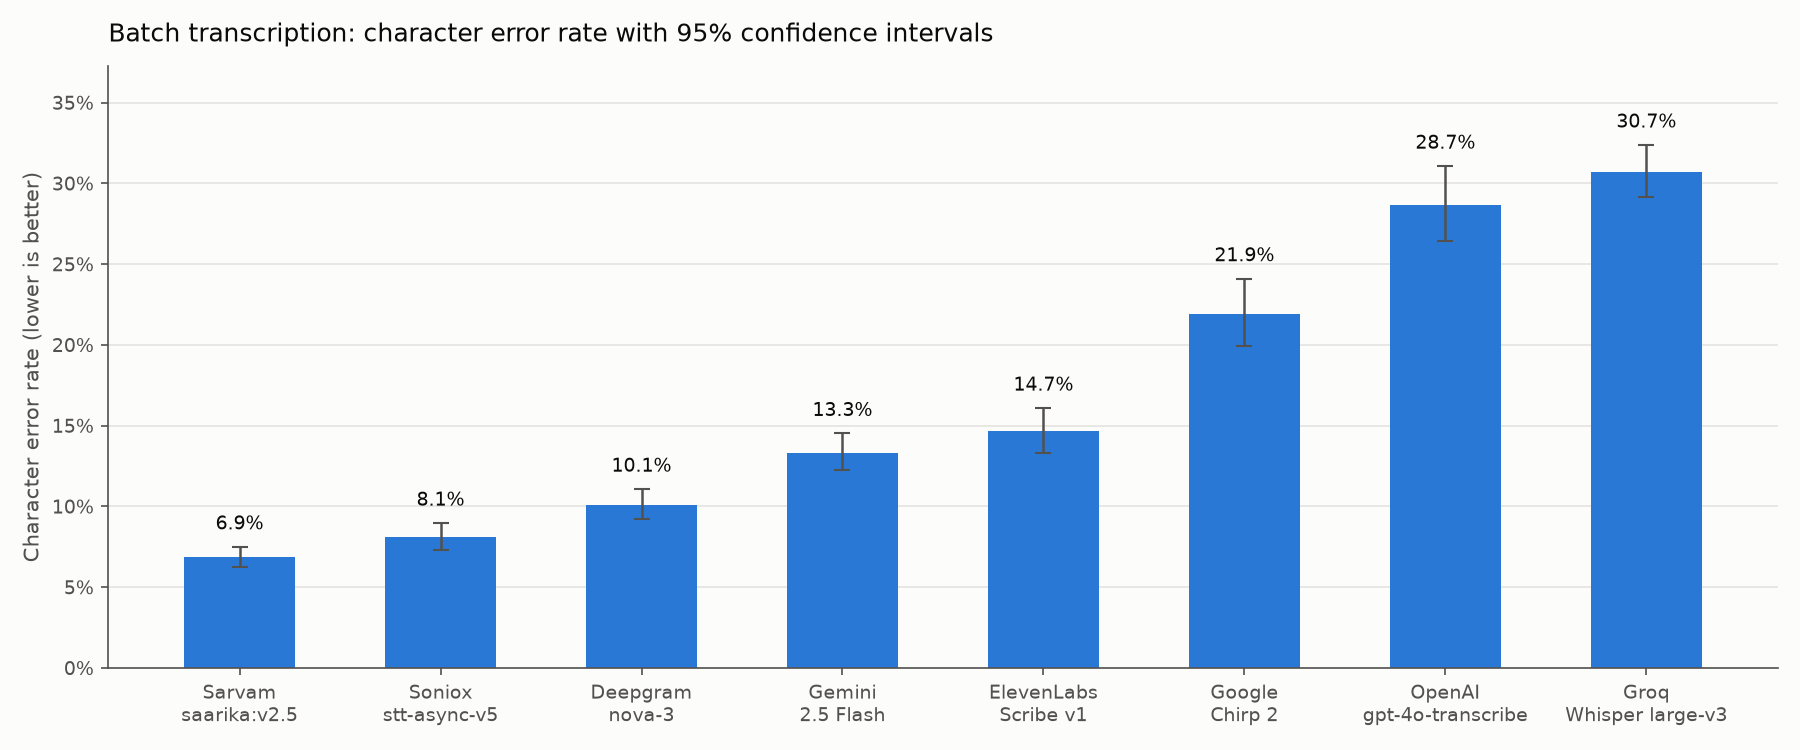
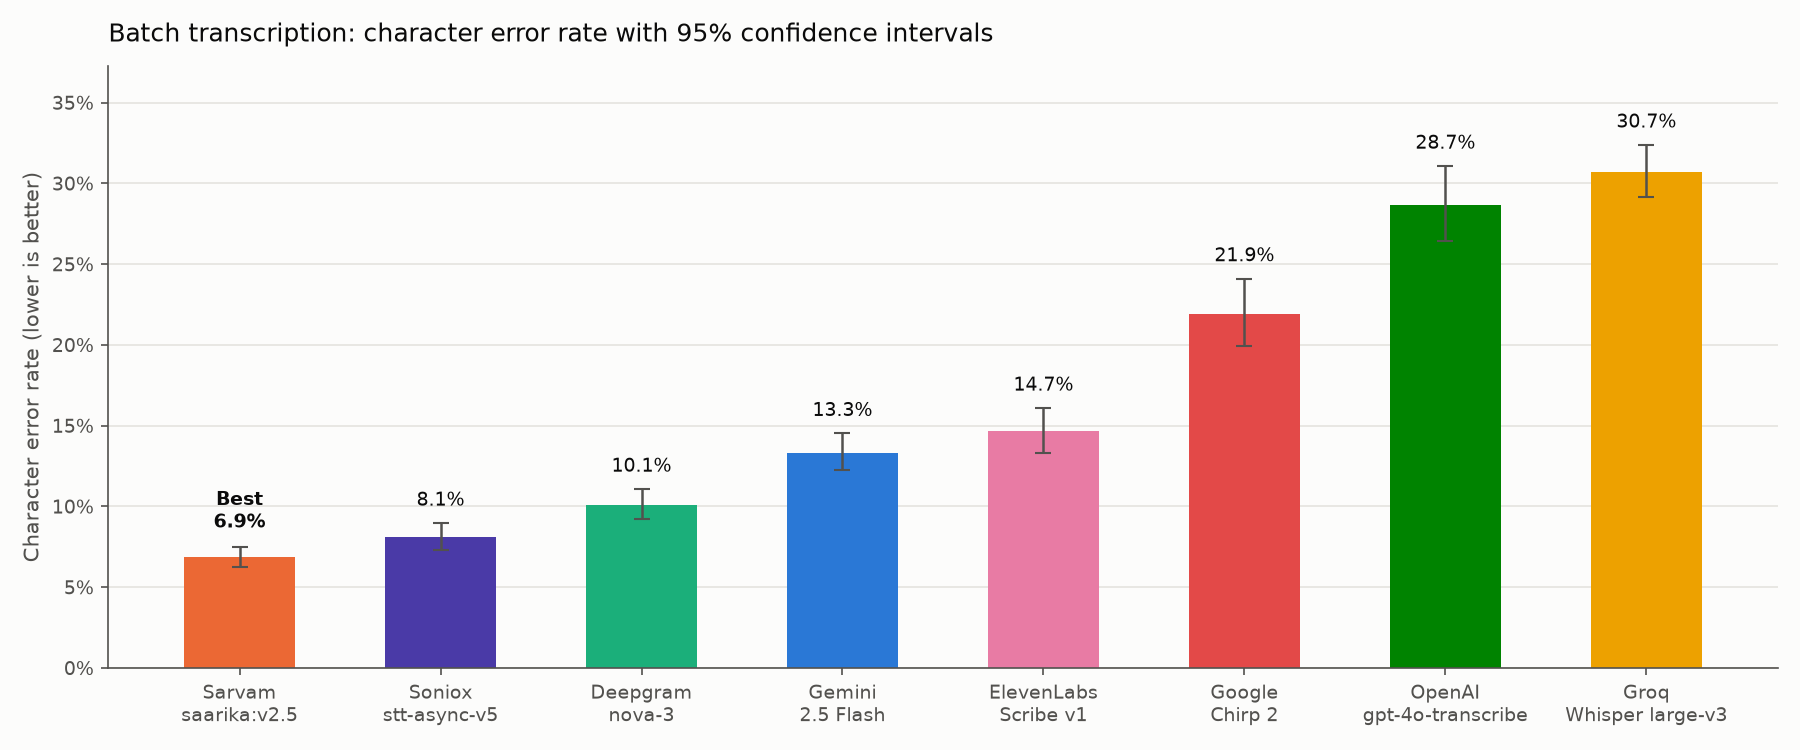
Make README and charts more colourful
Give each provider a fixed colour across every chart, use a warm ramp for
the domain heatmaps and label the best bar. Add badges, GitHub callouts,
a short summary tip and medals for the top 3 in the README tables.

Claude-Session: https://claude.ai/code/session_014H4DpivFfxjsAFBzYfeYvQ

diff --git a/src/plot_results.py b/src/plot_results.py
@@ -23,15 +23,27 @@ ROOT = os.path.dirname(os.path.dirname(os.path.abspath(__file__)))
 RESULTS = os.path.join(ROOT, "results")
 PLOTS = os.path.join(RESULTS, "plots")
 
-# Colours: one accent hue for single-series charts, a second for the
-# second series of a paired chart, a one-hue sequential ramp for heatmaps.
+# Colours: each provider keeps one hue across every chart (batch and streaming
+# alike), two fixed hues for the paired latency chart, and a warm light-to-dark
+# ramp for the heatmaps (hotter = more errors).
 SURFACE = "#fcfcfb"
 INK = "#0b0b0b"
 INK_2 = "#52514e"
 GRID = "#e4e3df"
 BLUE = "#2a78d6"
 ORANGE = "#eb6834"
-SEQ = ["#cde2fb", "#9ec5f4", "#6da7ec", "#3987e5", "#256abf", "#184f95", "#0d366b"]
+SEQ = ["#fff4d6", "#fed98e", "#fdb04f", "#f5813a", "#e3572b", "#b8321e", "#7f1d12"]
+
+PROVIDER_COLOR = {
+    "sarvam": "#eb6834",      # orange
+    "soniox": "#4a3aa7",      # violet
+    "deepgram": "#1baf7a",    # aqua
+    "gemini": "#2a78d6",      # blue
+    "elevenlabs": "#e87ba4",  # magenta
+    "google": "#e34948",      # red
+    "openai": "#008300",      # green
+    "groq": "#eda100",        # yellow
+}
 
 NAMES = {
     "sarvam_saarika": "Sarvam\nsaarika:v2.5",
@@ -74,6 +86,10 @@ def label_at(ax, text, x, y, model):
                 ha="right" if dx < 0 else "left")
 
 
+def color(model: str) -> str:
+    return PROVIDER_COLOR[model.split("_")[0]]
+
+
 def short(model: str) -> str:
     return NAMES[model].split("\n")[0]
 
@@ -114,10 +130,12 @@ def cer_bars(ci_csv, title, name):
     cer = df["CER"] * 100
     err = [cer - df["CER_ci_low"] * 100, df["CER_ci_high"] * 100 - cer]
     fig, ax = figure(12, 5)
-    ax.bar(x, cer, width=0.55, color=BLUE, zorder=2)
+    ax.bar(x, cer, width=0.55, color=[color(m) for m in df["model"]], zorder=2)
     ax.errorbar(x, cer, yerr=err, fmt="none", ecolor=INK_2, elinewidth=1.2, capsize=4, zorder=3)
-    for xi, v, hi in zip(x, cer, df["CER_ci_high"] * 100):
-        ax.text(xi, hi + 0.8, f"{v:.1f}%", ha="center", va="bottom", fontsize=9, color=INK)
+    for i, (xi, v, hi) in enumerate(zip(x, cer, df["CER_ci_high"] * 100)):
+        label = f"Best\n{v:.1f}%" if i == 0 else f"{v:.1f}%"
+        ax.text(xi, hi + 0.8, label, ha="center", va="bottom", fontsize=9, color=INK,
+                fontweight="bold" if i == 0 else "normal")
     ax.set_xticks(x, [NAMES[m] for m in df["model"]], fontsize=8)
     ax.yaxis.set_major_formatter(pct)
     ax.set_ylabel("Character error rate (lower is better)", color=INK_2, fontsize=10)
@@ -133,7 +151,8 @@ def cer_vs_cost(cost_csv, title, name):
     for _, r in df.iterrows():
         minimum = r["cost_type"] == "minimum"
         ax.scatter(r["list_usd_per_hour"], r["CER"] * 100, s=90, zorder=3,
-                   facecolor=SURFACE if minimum else BLUE, edgecolor=BLUE, linewidth=2)
+                   facecolor=SURFACE if minimum else color(r["model"]), edgecolor=color(r["model"]),
+                   linewidth=2)
         label = short(r["model"]) + (" (min. cost)" if minimum else "")
         label_at(ax, label, r["list_usd_per_hour"], r["CER"] * 100, r["model"])
     ax.set_xlabel("List price, USD per hour of audio (lower is better)", color=INK_2, fontsize=10)
@@ -151,7 +170,8 @@ def cer_vs_cost(cost_csv, title, name):
 def cer_vs_latency(name):
     lb = pd.read_csv(os.path.join(RESULTS, "streaming_leaderboard.csv"))
     fig, ax = figure(9, 6)
-    ax.scatter(lb["finalization_p50_s"], lb["CER"] * 100, s=90, color=BLUE, zorder=3)
+    ax.scatter(lb["finalization_p50_s"], lb["CER"] * 100, s=90, zorder=3,
+               color=[color(m) for m in lb["model"]], edgecolor=SURFACE, linewidth=2)
     for _, r in lb.iterrows():
         label_at(ax, short(r["model"]), r["finalization_p50_s"], r["CER"] * 100, r["model"])
     ax.set_xlabel("Median time from end of speech to final transcript, seconds (lower is better)",

diff --git a/README.md b/README.md
@@ -1,5 +1,14 @@
 # Bangla Speech-to-Text Benchmark
 
+![Providers: 8](https://img.shields.io/badge/providers-8-2a78d6)
+![Audio clips: 1,001](https://img.shields.io/badge/audio%20clips-1%2C001-1baf7a)
+![Domains: 13](https://img.shields.io/badge/domains-13-4a3aa7)
+![Modes: batch and streaming](https://img.shields.io/badge/modes-batch%20%7C%20streaming-eb6834)
+![Best batch CER: Sarvam 6.9%](https://img.shields.io/badge/best%20batch%20CER-Sarvam%206.9%25-008300)
+![Best streaming CER: Soniox 7.4%](https://img.shields.io/badge/best%20streaming%20CER-Soniox%207.4%25-008300)
+![Tested: September 2026](https://img.shields.io/badge/tested-Sep%202026-eda100)
+[![License: MIT](https://img.shields.io/badge/license-MIT-e87ba4)](LICENSE)
+
 **An open benchmark of 8 hosted Bengali speech-to-text (ASR) APIs on 1,001
 real Bangla audio clips across 13 domains, covering both batch
 transcription and real-time streaming.**
@@ -8,6 +17,7 @@ Providers tested: Sarvam AI, Soniox, Deepgram, Google (Gemini and Chirp 2),
 ElevenLabs, OpenAI and Groq (Whisper). Version 1.0, tested in **September
 2026**.
 
+> [!WARNING]
 > Results reflect each provider's API as it behaved when we tested it.
 > Vendors update models often, so check the [exact model IDs](#providers-and-exact-model-versions)
 > and rerun the benchmark before relying on these numbers for a purchase decision.
@@ -38,8 +48,14 @@ ElevenLabs, OpenAI and Groq (Whisper). Version 1.0, tested in **September
 
 ## Results
 
+> [!TIP]
+> **In short:** Sarvam AI is the most accurate batch API (6.9% CER) and
+> Soniox the most accurate streaming API (7.4% CER). Both are also among
+> the cheapest. See [Key findings](#key-findings).
+
 Lower is better. **CER** (character error rate) is the primary metric, and
 the ranking is ordered by it. Brackets show 95% bootstrap confidence intervals.
+Each provider keeps the same colour in every chart.
 
 ### Batch (whole-file transcription)
 
@@ -47,9 +63,9 @@ the ranking is ordered by it. Brackets show 95% bootstrap confidence intervals.
 
 | # | Provider | Model | CER | WER | Mean latency | List price / hour |
 |---|---|---|---|---|---|---|
-| 1 | Sarvam AI | `saarika:v2.5` | **6.9%** [6.2–7.5] | **18.2%** [17.0–19.3] | 0.99 s | $0.31 (₹30) |
-| 2 | Soniox | `stt-async-v5` | 8.1% [7.3–9.0] | 21.5% [20.1–22.9] | 7.58 s | **$0.10** (estimate) |
-| 3 | Deepgram | `nova-3` | 10.1% [9.2–11.1] | 23.9% [22.5–25.4] | 2.15 s | $0.26 |
+| 🥇 1 | Sarvam AI | `saarika:v2.5` | **6.9%** [6.2–7.5] | **18.2%** [17.0–19.3] | 0.99 s | $0.31 (₹30) |
+| 🥈 2 | Soniox | `stt-async-v5` | 8.1% [7.3–9.0] | 21.5% [20.1–22.9] | 7.58 s | **$0.10** (estimate) |
+| 🥉 3 | Deepgram | `nova-3` | 10.1% [9.2–11.1] | 23.9% [22.5–25.4] | 2.15 s | $0.26 |
 | 4 | Google Gemini | `gemini-2.5-flash` | 13.3% [12.3–14.5] | 27.0% [25.5–28.6] | 3.85 s | at least $0.12 |
 | 5 | ElevenLabs | `scribe_v1` (see notes) | 14.7% [13.3–16.1] | 26.0% [24.4–27.7] | 1.39 s | $0.22 (Scribe v2 price) |
 | 6 | Google Cloud | `chirp_2` | 21.9% [19.9–24.1] | 41.4% [38.9–44.1] | 4.13 s | $0.96 |
@@ -62,9 +78,9 @@ the ranking is ordered by it. Brackets show 95% bootstrap confidence intervals.
 
 | # | Provider | Model | CER | WER | Time to first partial (p50) | Final result after speech ends (p50) | List price / hour |
 |---|---|---|---|---|---|---|---|
-| 1 | Soniox | `stt-rt-v5` | **7.4%** [6.5–8.3] | **19.7%** | 1.85 s | 2.46 s | **$0.12** (estimate) |
-| 2 | Sarvam AI | `saaras:v3-realtime` | 9.0% [7.8–10.3] | 20.3% | **1.35 s** | **0.88 s** | $0.31 (₹30) |
-| 3 | Deepgram | `nova-3` | 17.5% [16.3–18.7] | 33.3% | 2.33 s | 1.55 s | $0.46 (regular price) |
+| 🥇 1 | Soniox | `stt-rt-v5` | **7.4%** [6.5–8.3] | **19.7%** | 1.85 s | 2.46 s | **$0.12** (estimate) |
+| 🥈 2 | Sarvam AI | `saaras:v3-realtime` | 9.0% [7.8–10.3] | 20.3% | **1.35 s** | **0.88 s** | $0.31 (₹30) |
+| 🥉 3 | Deepgram | `nova-3` | 17.5% [16.3–18.7] | 33.3% | 2.33 s | 1.55 s | $0.46 (regular price) |
 | 4 | Google Cloud | `chirp_2` | 23.6% [21.5–25.8] | 43.8% | 7.15 s | 2.17 s | $0.96 |
 | 5 | OpenAI | `gpt-4o-transcribe` (Realtime API) | 24.6% [22.1–27.1] | 42.4% | 3.60 s | 4.22 s | $0.36 (estimate) |
 | 6 | ElevenLabs | `scribe_v2_realtime` | 38.6% [35.9–41.3] | 55.4% | 3.13 s | 1.36 s | $0.39 |
@@ -91,7 +107,8 @@ of audio, checked on each provider's own pricing page on **24 September
 
 ### Streaming latency
 
-> **Heads-up: network distance affects these numbers.** The benchmark was run
+> [!IMPORTANT]
+> **Network distance affects these numbers.** The benchmark was run
 > from a laptop (MacBook) in Bangladesh over a regular internet connection.
 > Every latency figure includes the network round trip to the provider's
 > servers. Some providers served our requests from India, some from Europe
